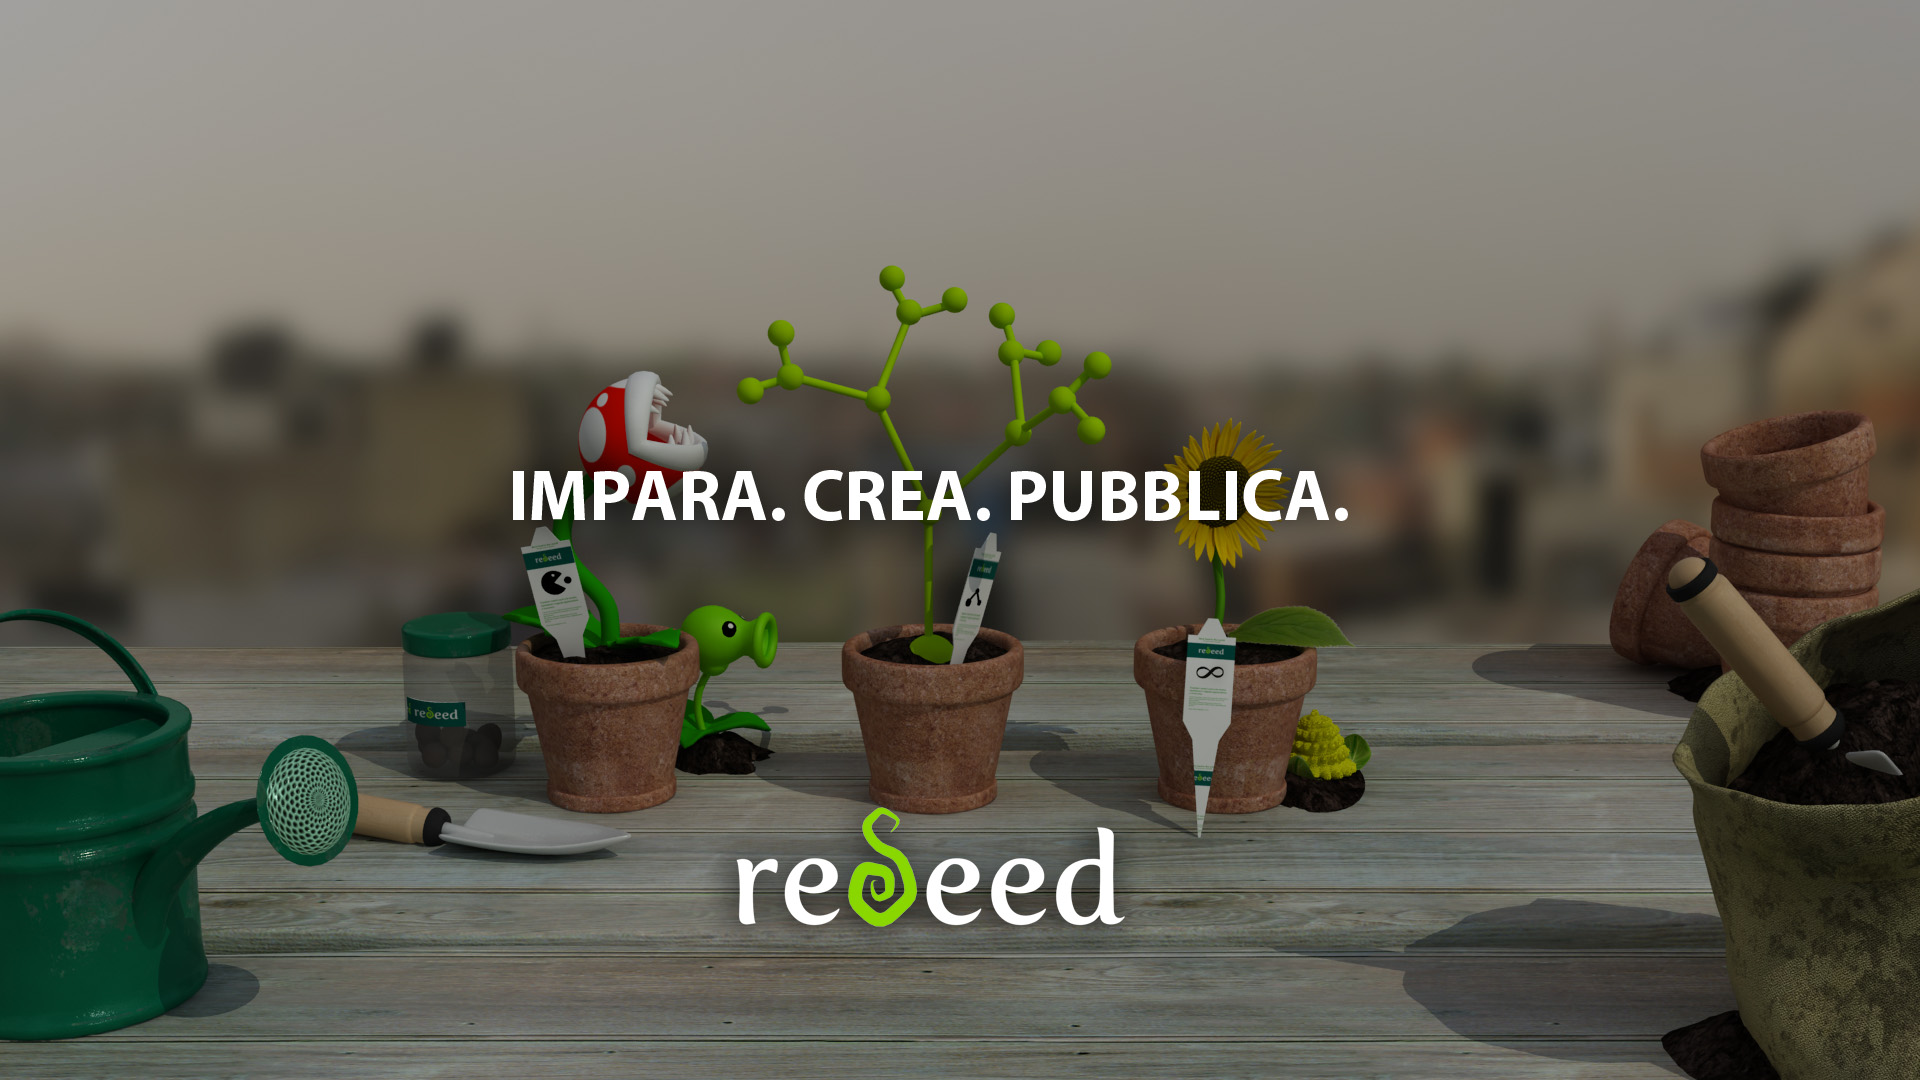
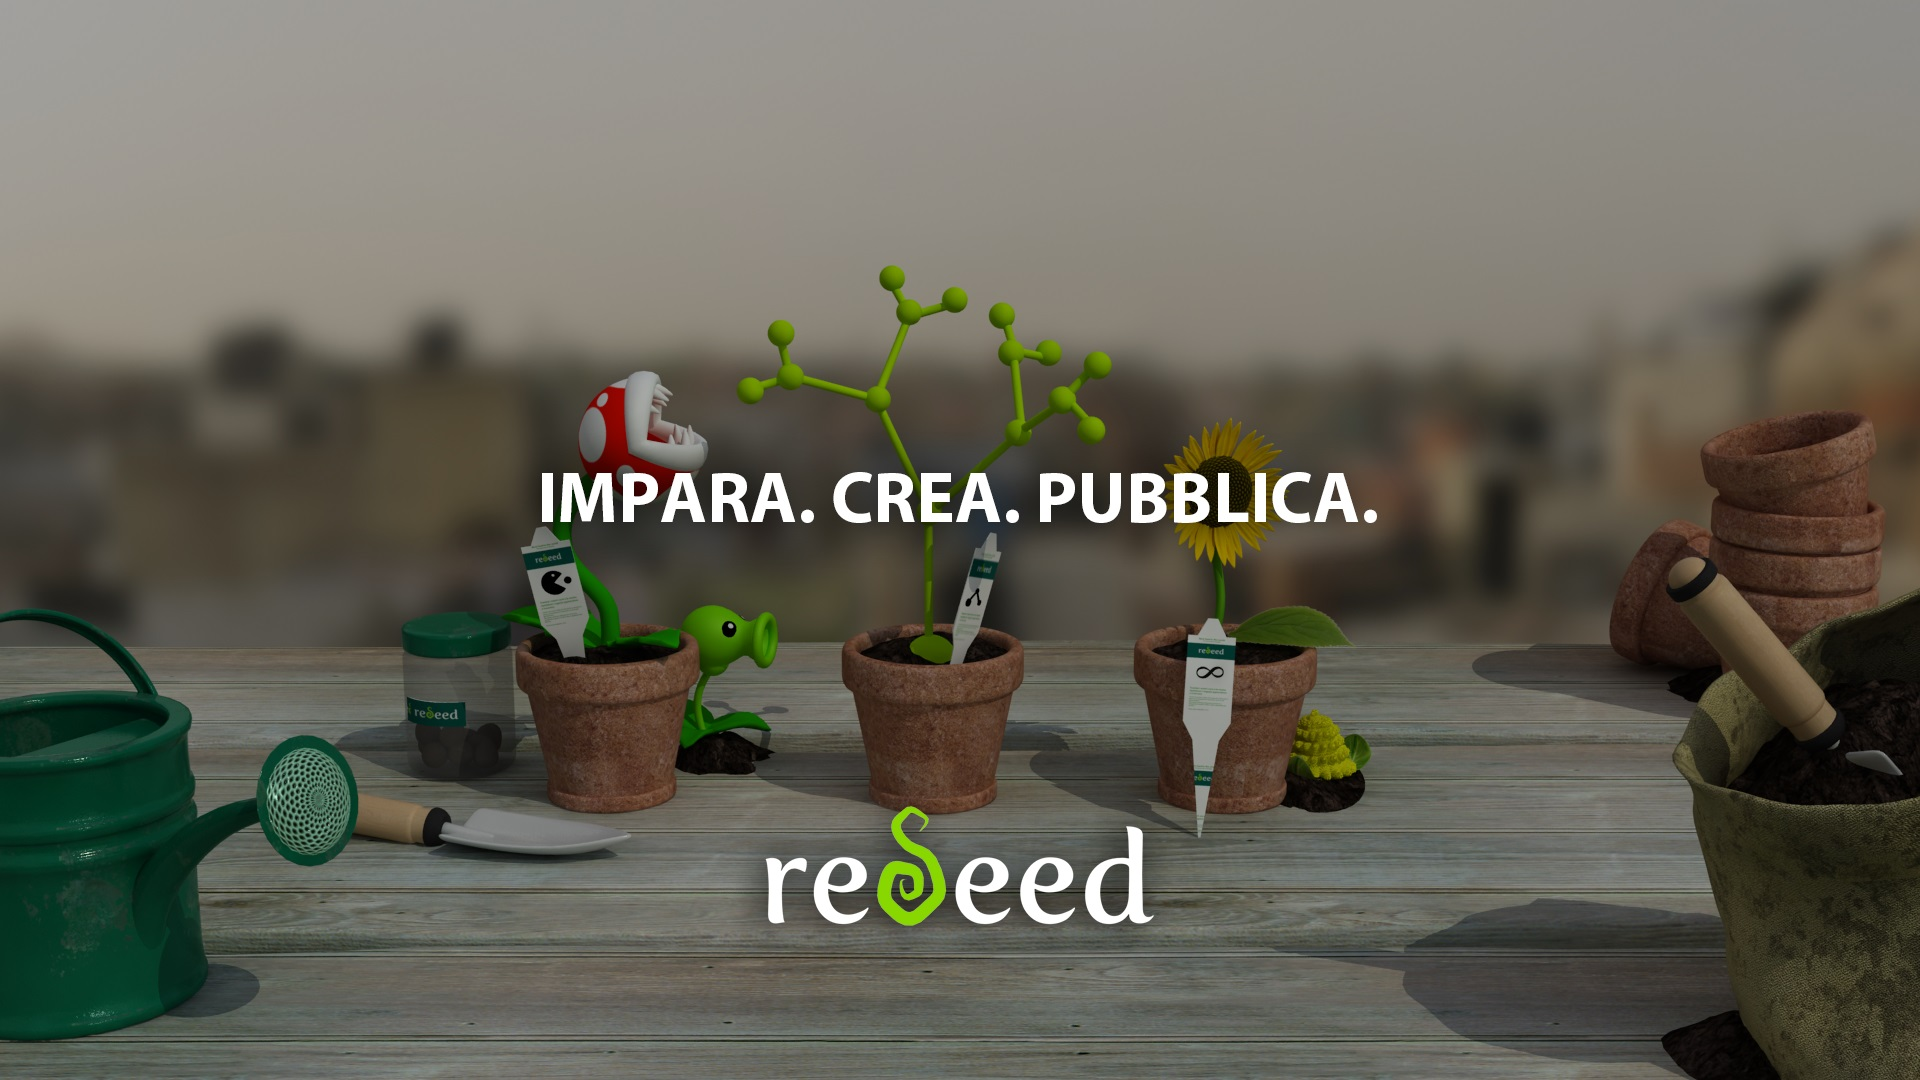
Changed heavy header & updated og info

Changed region(s): [[0.25, 0.4278, 0.7188, 0.4889], [0.375, 0.7333, 0.625, 0.8556]]

diff --git a/js/config/routesConfig.js b/js/config/routesConfig.js
@@ -13,7 +13,7 @@ main.run(['$rootScope','$location', function($rootScope,$location) {
             if($location.url().indexOf("/courses/") == 0) $rootScope.ogTitle = "Corso di " + $rootScope.ogTitle;
 
             $rootScope.ogDescription = $rootScope.description;
-            $rootScope.ogImage = "http://www.reseed.it/" + (current.$$route.image ? current.$$route.image : "imgs/header.png");
+            $rootScope.ogImage = "http://www.reseed.it/" + (current.$$route.image ? current.$$route.image : "imgs/header.jpg");
             $rootScope.ogUrl = 'https://www.reseed.it' + $location.url();
     	}
     	else

diff --git a/sass/_header.scss b/sass/_header.scss
@@ -8,14 +8,14 @@
     position: relative;
     margin-bottom: $main-spacer;
     
-    background: url(../imgs/header.png) no-repeat center;
+    background: url(../imgs/header.jpg) no-repeat center;
     -webkit-background-size: 100%;
     -moz-background-size: 100%;
     -o-background-size: 100%;
     background-size: 100%;
     
     /* For parallax effect */
-    // background: url(../imgs/header.png) no-repeat bottom fixed;
+    // background: url(../imgs/header.jpg) no-repeat bottom fixed;
     // -webkit-background-size: cover;
     // -moz-background-size: cover;
     // -o-background-size: cover;

diff --git a/js/controllers/course.js b/js/controllers/course.js
@@ -252,6 +252,11 @@ main.controller('courseController',['utilities','$scope','$server','$routeParams
 		
 		$rootScope.ogTitle = "Corso di " + $rootScope.title;
 	    $rootScope.ogDescription = $rootScope.description;
+	    if(self.courseName == "Rendering per architetti")
+	    {
+	    	$rootScope.ogTitle = "Corso di rendering fotorealistico";
+	    	$rootScope.ogDescription = "Rendering fotorealistici in 3D Studio Max e V-Ray";
+	    }
 	    
 //		switch (self.courseName) {
 //		case 'Java':

diff --git a/stylesheets/screen.css b/stylesheets/screen.css
@@ -15355,7 +15355,7 @@ body {
   /* For proper full-page visualization */
   position: relative;
   margin-bottom: 3vw;
-  background: url(../imgs/header.png) no-repeat center;
+  background: url(../imgs/header.jpg) no-repeat center;
   -webkit-background-size: 100%;
   -moz-background-size: 100%;
   -o-background-size: 100%;
